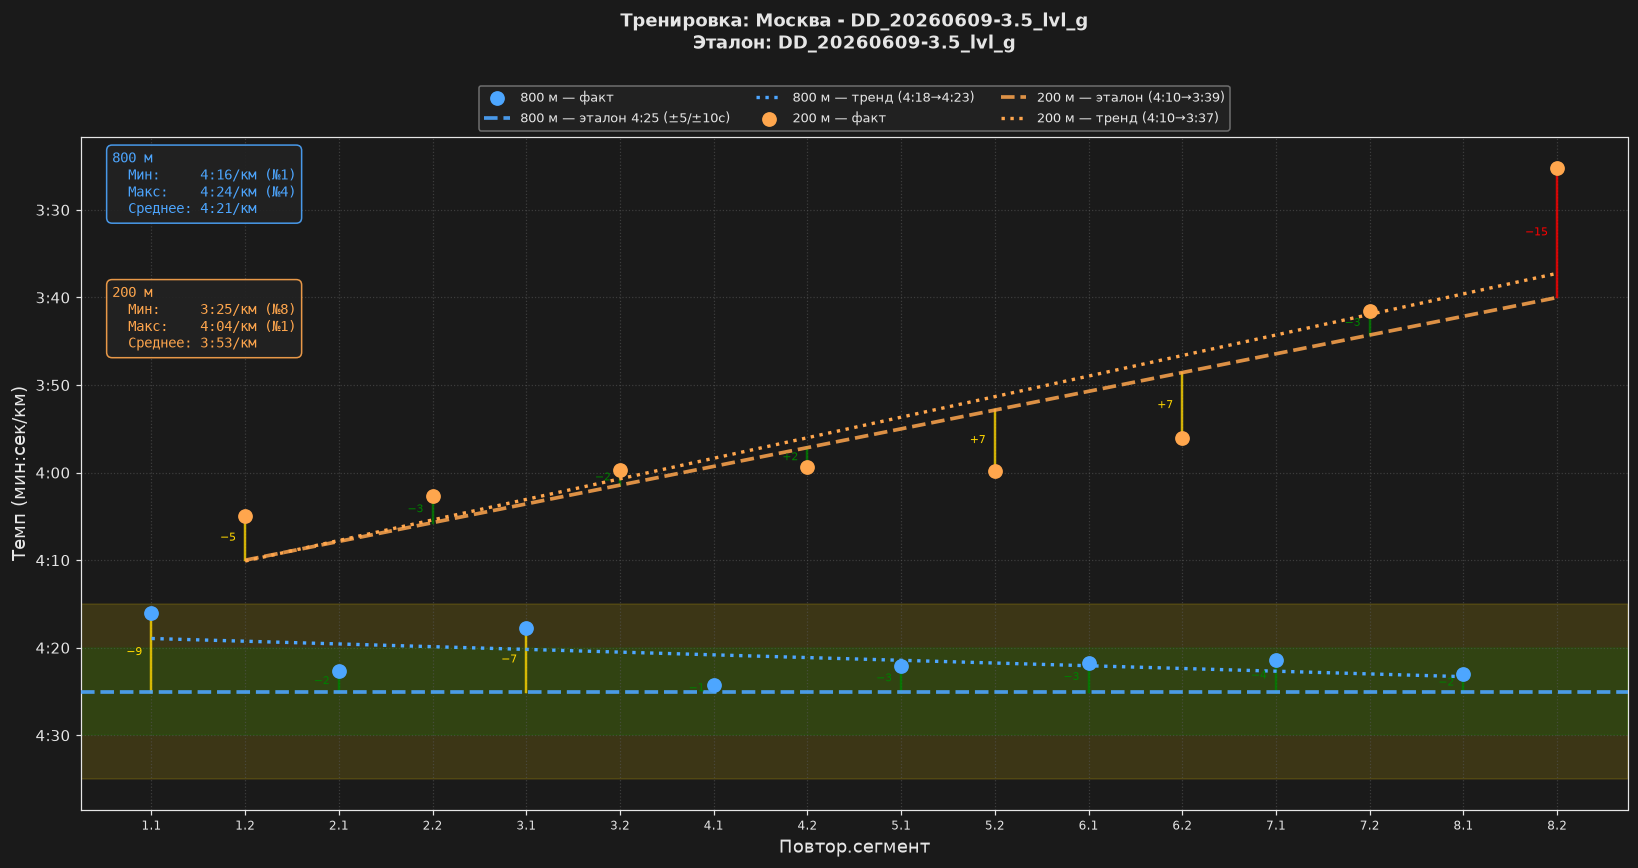
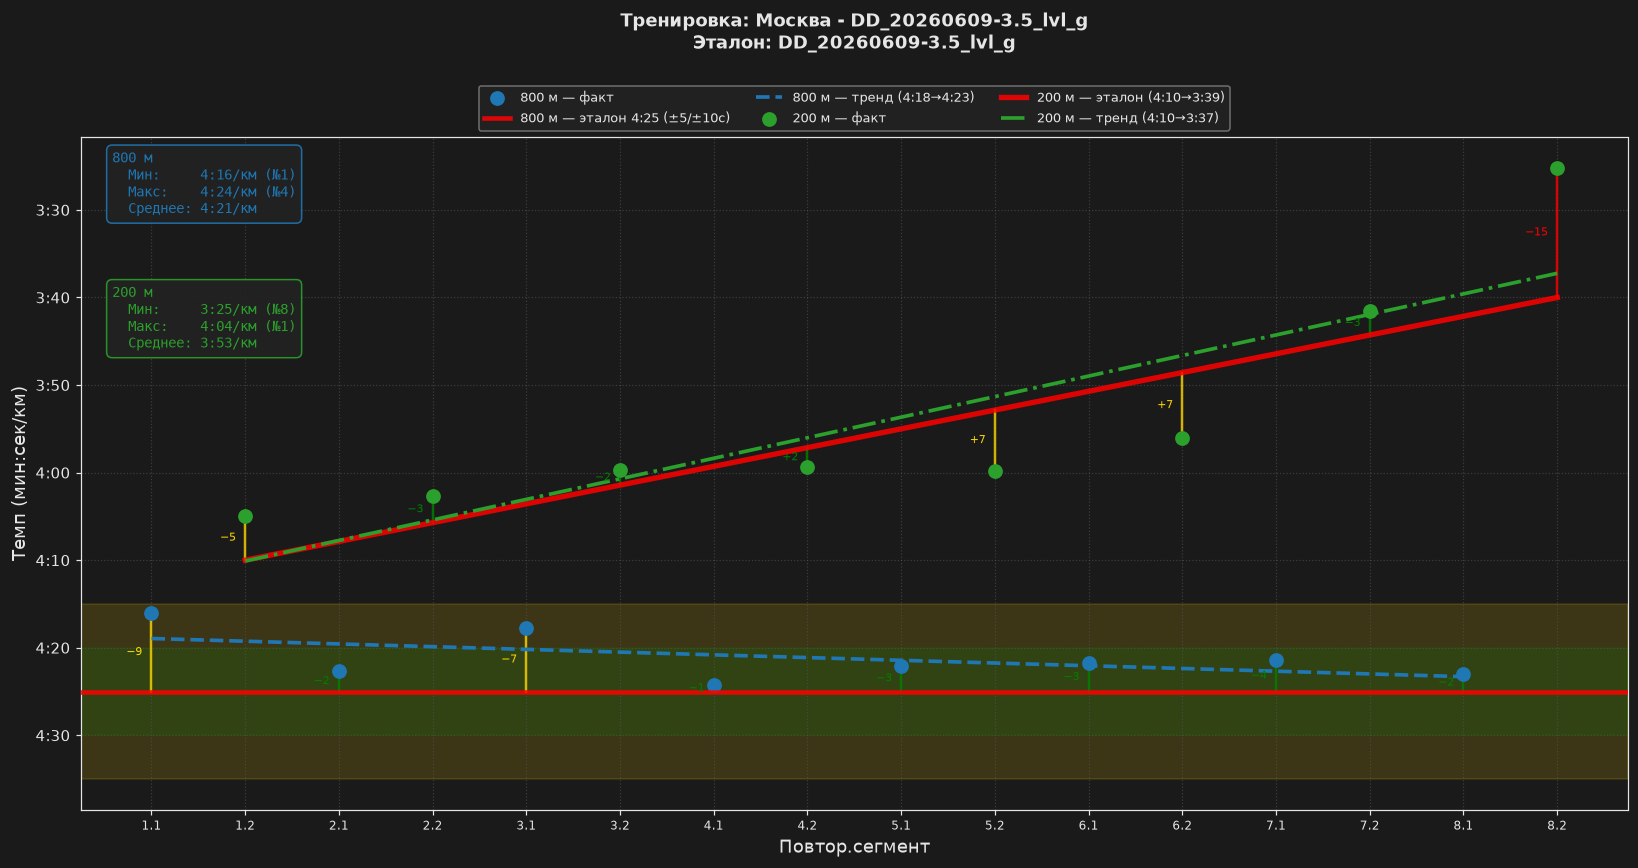
deploy: v0.24.89 - /last — цветовая схема возвращена к прежней (контрастная): эталон красный сплошной,

diff --git a/scripts/review_one.py b/scripts/review_one.py
@@ -64,7 +64,8 @@ _PROJECT_ROOT = os.path.join(os.path.dirname(__file__), "..")
 OUT_DIR = os.path.join(_PROJECT_ROOT, "_s4_out")
 
 # Палитра серий (читается на тёмном и светлом)
-_SERIES_COLORS = ["#1f77b4", "#ff7f0e", "#2ca02c", "#9467bd", "#8c564b"]
+_SERIES_COLORS = ["#1f77b4", "#2ca02c", "#17becf", "#6a3d9a", "#56b4e9"]
+_SERIES_TREND_LS = ["--", "-.", ":", (0, (3, 1, 1, 1)), "--"]
 
 # Эталон work: точное значение (узкий диапазон) → горизонталь + коридоры ±5/±10с;
 # широкий диапазон → линия-прогрессия. Порог «точности» в секундах:
@@ -247,6 +248,7 @@ def _plot_work_segmented(work_roles, x_ticks, title, out_path):
             xs = np.array(r["xs"], dtype=float)
             ys = np.array(r["ys"], dtype=float)
             c = r["color"]
+            tls = _SERIES_TREND_LS[work_roles.index(r) % len(_SERIES_TREND_LS)]
             ax.scatter(xs, ys, color=c, s=75, zorder=3, label=f"{r['label']} — факт")
             if r.get("bounds"):
                 slow, fast = r["bounds"]
@@ -267,7 +269,7 @@ def _plot_work_segmented(work_roles, x_ticks, title, out_path):
             if len(xs) >= 2:
                 a, b = np.polyfit(xs, ys, 1)
                 tr = a * xs + b
-                ax.plot(xs, tr, color=c, ls="--", lw=2.4, zorder=4,
+                ax.plot(xs, tr, color=c, ls=tls, lw=2.4, zorder=4,
                         label=f"{r['label']} — тренд ({ar._pace_formatter(tr[0])}→{ar._pace_formatter(tr[-1])})")
         for k, r in enumerate(work_roles):
             ax.text(0.02, 0.98 - k * 0.20, "\n".join(_stats_lines(r["label"], r["ys"])),

diff --git a/src/activity_review.py b/src/activity_review.py
@@ -374,7 +374,8 @@ def _plot_table(work, rest, plan_work, plan_rest, title, out_path):
 WORK_EXACT_EPS = 3.0
 WORK_CORR_GREEN = 5
 WORK_CORR_YELLOW = 10
-_SERIES_COLORS = ["#1f77b4", "#ff7f0e", "#2ca02c", "#9467bd", "#8c564b"]
+_SERIES_COLORS = ["#1f77b4", "#2ca02c", "#17becf", "#6a3d9a", "#56b4e9"]
+_SERIES_TREND_LS = ["--", "-.", ":", (0, (3, 1, 1, 1)), "--"]
 
 
 def _flatten_plan_steps(wkt):
@@ -486,6 +487,7 @@ def _plot_work_segmented(work_roles, x_ticks, title, out_path):
             xs = np.array(r["xs"], dtype=float)
             ys = np.array(r["ys"], dtype=float)
             c = r["color"]
+            tls = _SERIES_TREND_LS[work_roles.index(r) % len(_SERIES_TREND_LS)]
             ax.scatter(xs, ys, color=c, s=75, zorder=3, label=f"{r['label']} — факт")
             if r.get("bounds"):
                 slow, fast = r["bounds"]
@@ -506,7 +508,7 @@ def _plot_work_segmented(work_roles, x_ticks, title, out_path):
             if len(xs) >= 2:
                 a, b = np.polyfit(xs, ys, 1)
                 tr = a * xs + b
-                ax.plot(xs, tr, color=c, ls="--", lw=2.4, zorder=4,
+                ax.plot(xs, tr, color=c, ls=tls, lw=2.4, zorder=4,
                         label=f"{r['label']} — тренд ({_pace_formatter(tr[0])}→{_pace_formatter(tr[-1])})")
         for k, r in enumerate(work_roles):
             ax.text(0.02, 0.98 - k * 0.20, "\n".join(_stats_lines(r["label"], r["ys"])),
